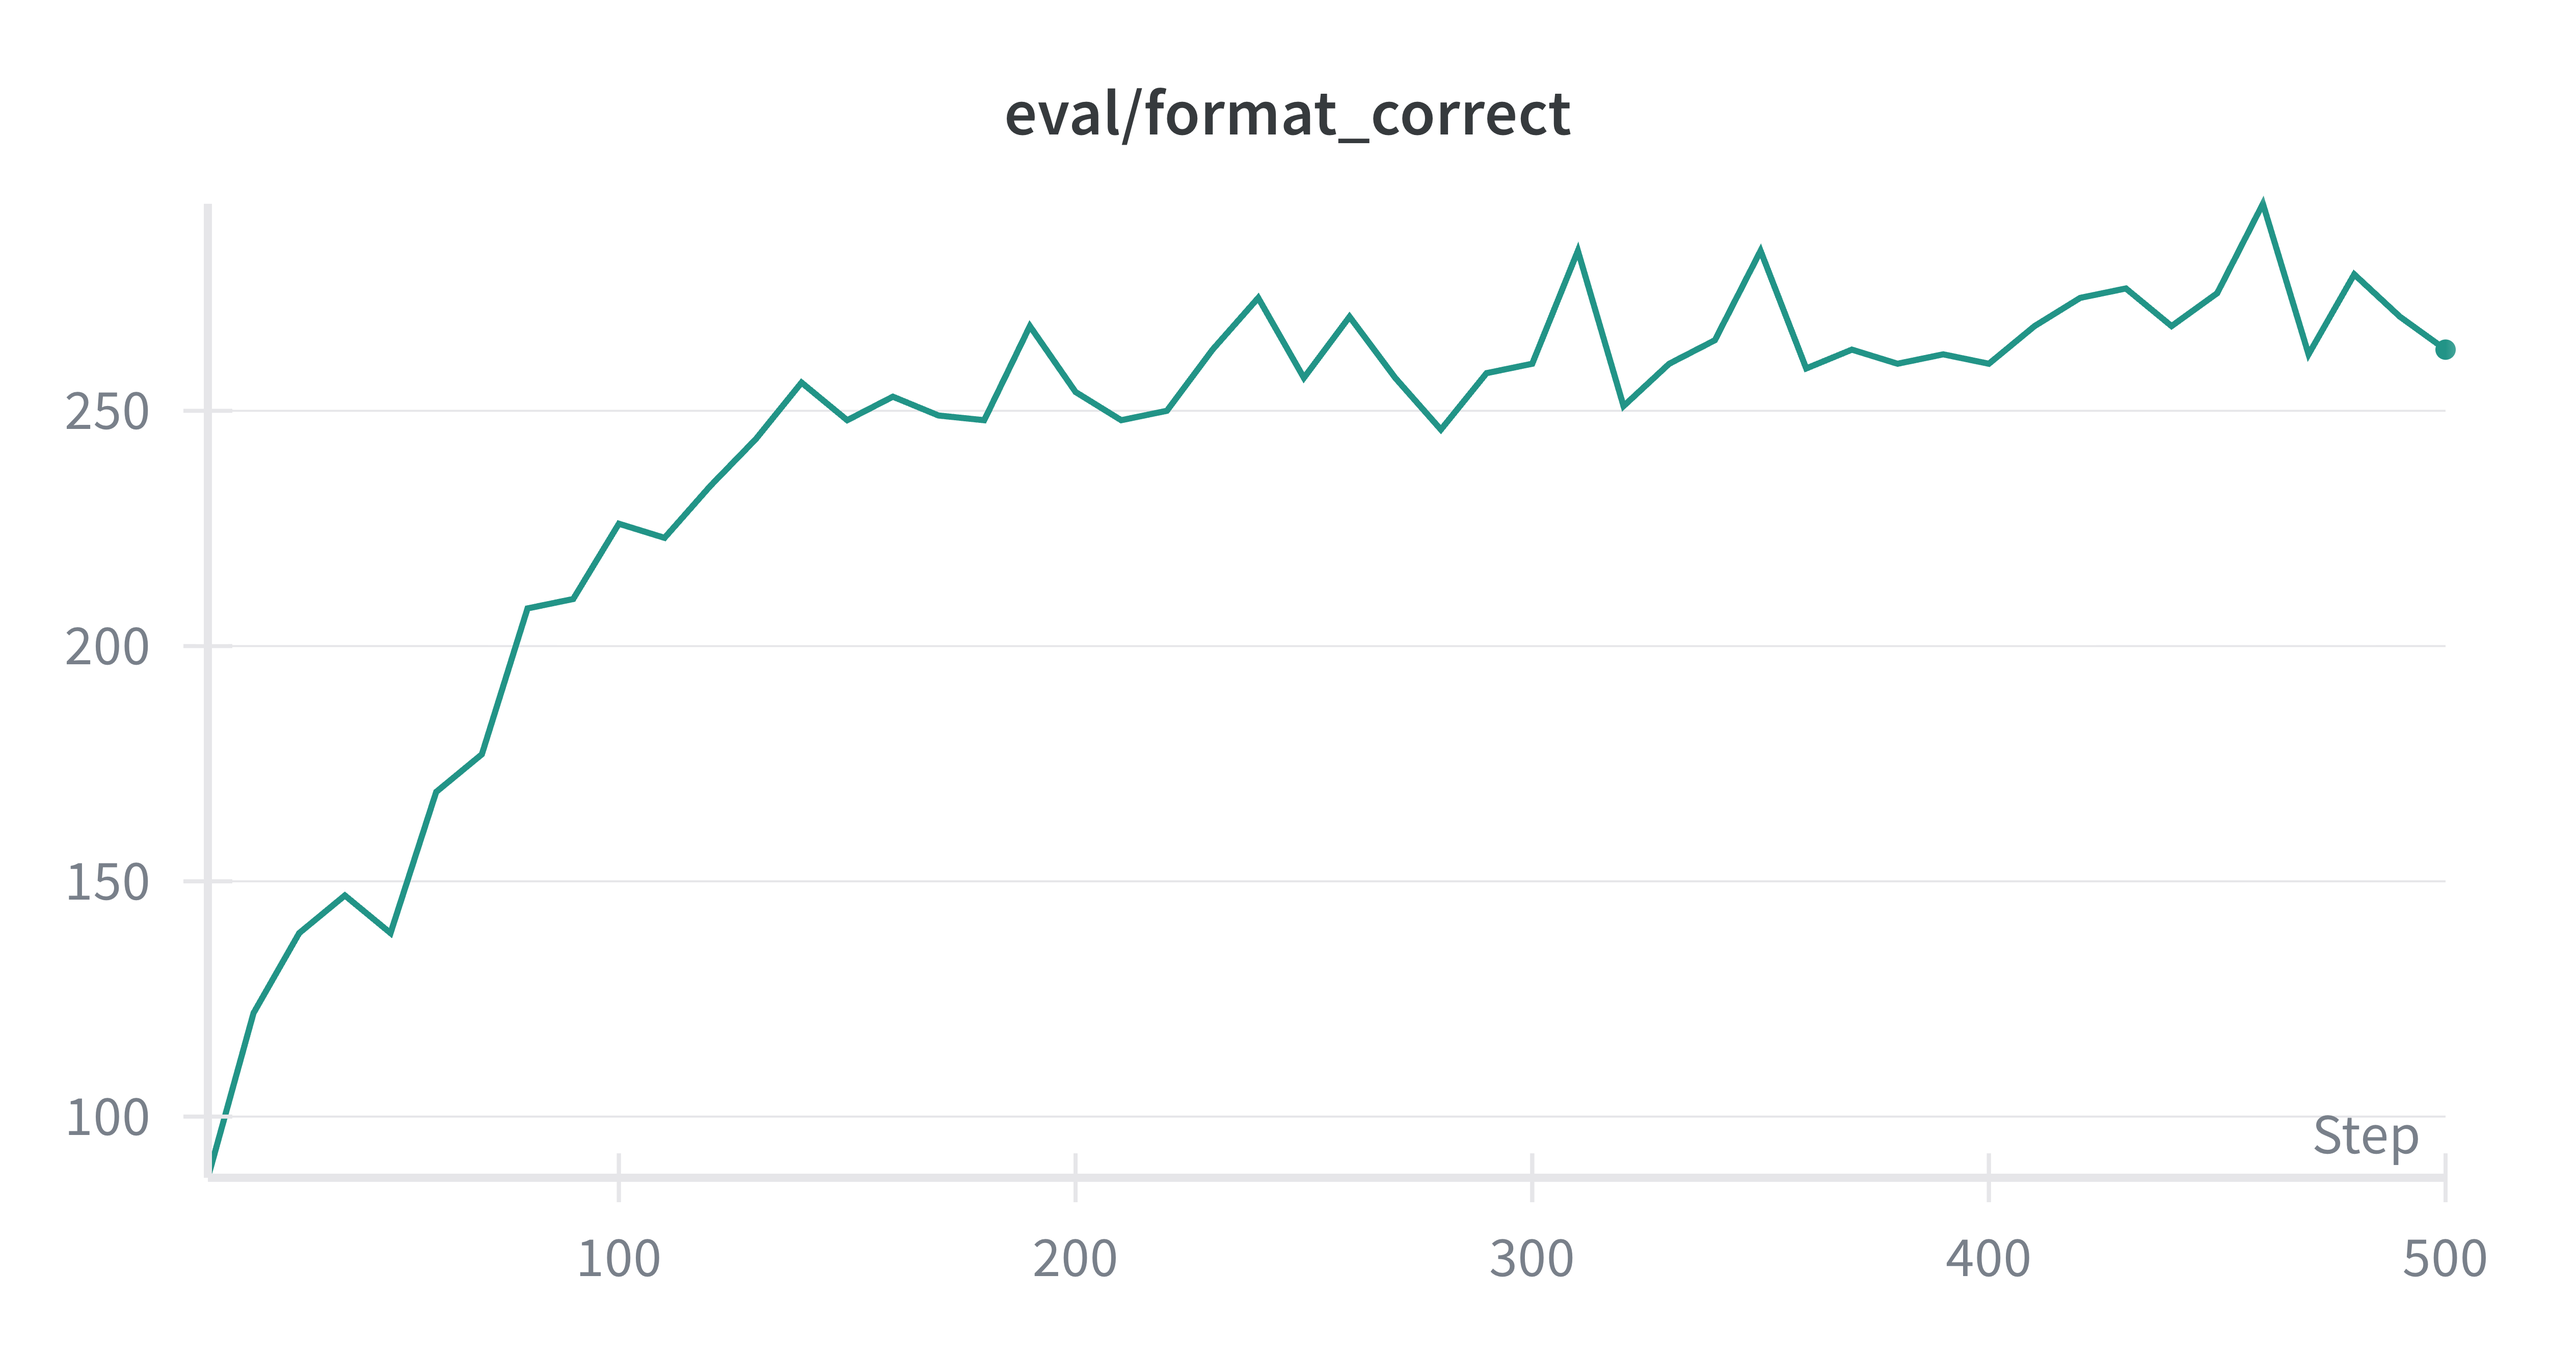
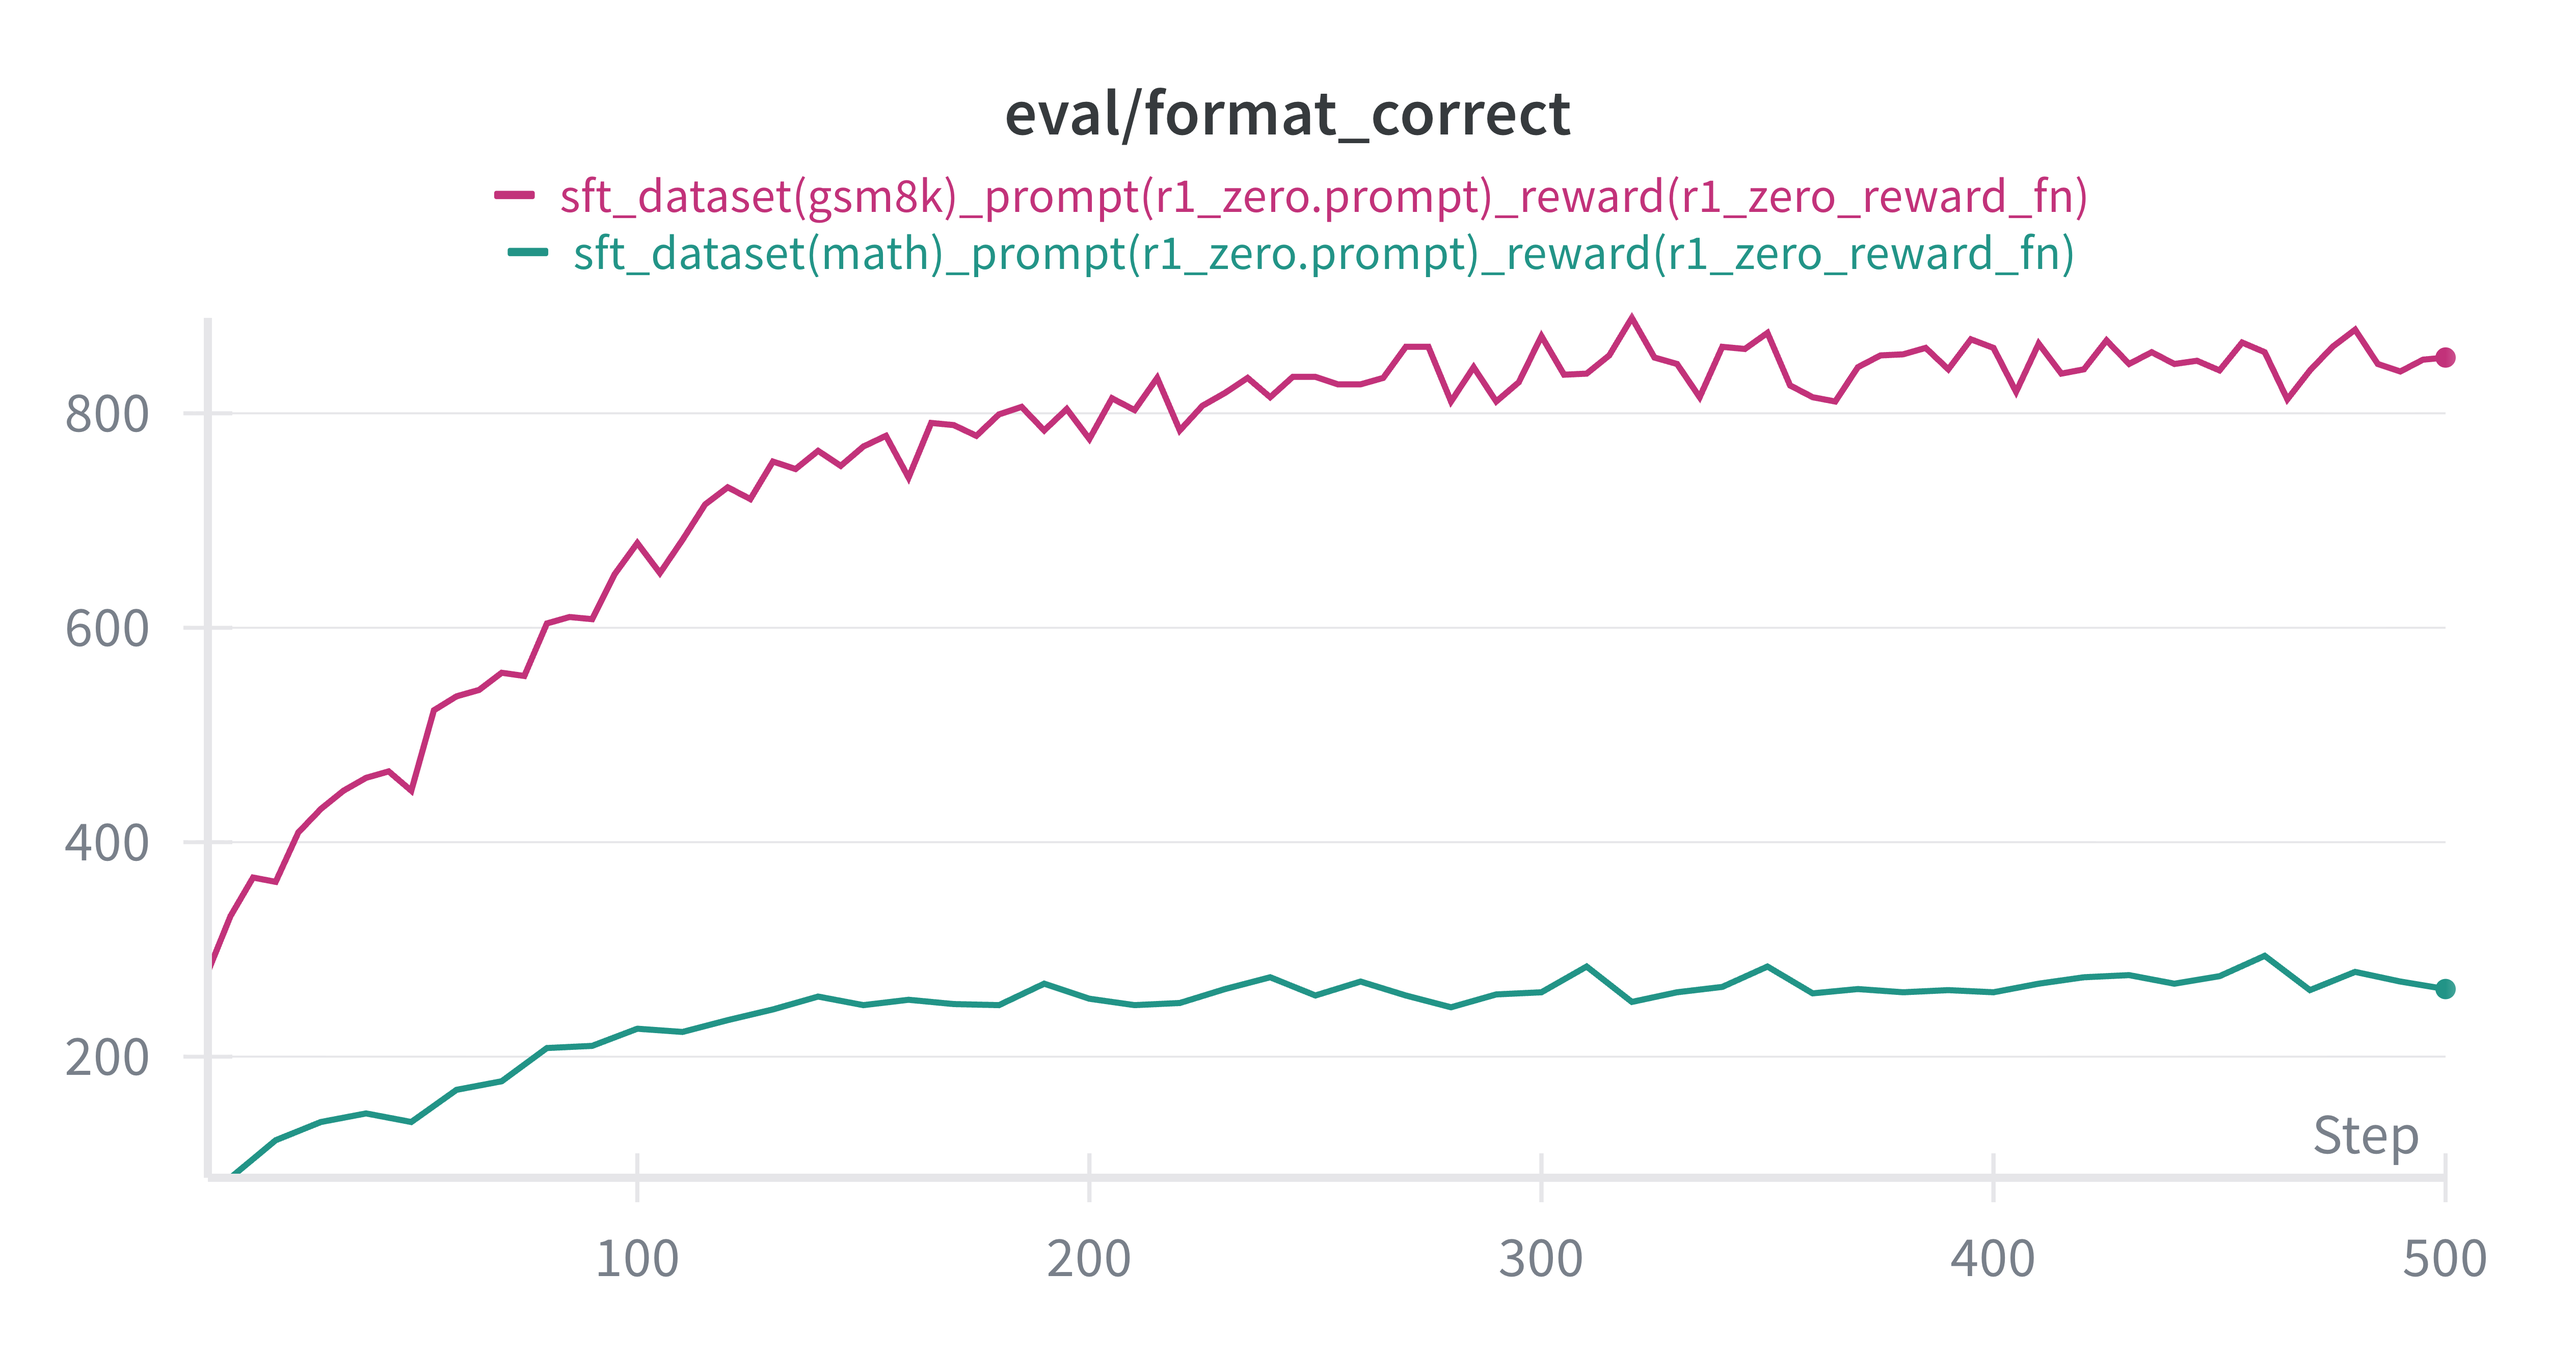
Update ReadMe

diff --git a/ReadME.md b/ReadME.md
@@ -22,6 +22,7 @@ CS336: Language Modeling from Scratch <br/>
 - [Assignment 05: Alignment \& RLHF (GRPO)](#assignment-05-alignment--rlhf-grpo)
   - [SFT](#sft)
   - [Expert Iteration](#expert-iteration)
+  - [GRPO](#grpo)
 
 
 
@@ -343,7 +344,7 @@ The first algorithm we implement is **Supervised Fine-Tuning (SFT)**. The core i
 
 
 
-```Text
+```Python
 total_training_steps: int = 500         # total number of training steps
 batch_size: int = 4                     # mini-batch size
 gradient_accumulation_steps: int = 64   # gradient accumulation steps
@@ -365,7 +366,7 @@ Under this configuration, we obtain the following training curves:
 
 
 
-![sft-format (1)](./assets/sft-format (1).png)
+![sft-format (1)](./assets/sft-format.png)
 
 
 
@@ -375,7 +376,7 @@ The second algorithm is **Expert Iteration (EI)**, implemented in `assignment5-a
 
 
 
-```Text
+```Python
 ei_steps: int = 5
 ei_batch_size: int = 512
 reward_fn: str = "r1_zero_reward_fn"
@@ -417,7 +418,7 @@ The third algorithm is **Group Relative Policy Optimization (GRPO)**, popularize
 
 
 
-```Text
+```Python
  n_grpo_cur_steps: int = 200
 rollout_batch_size: int = 256
 learning_rate: float = 1e-5
